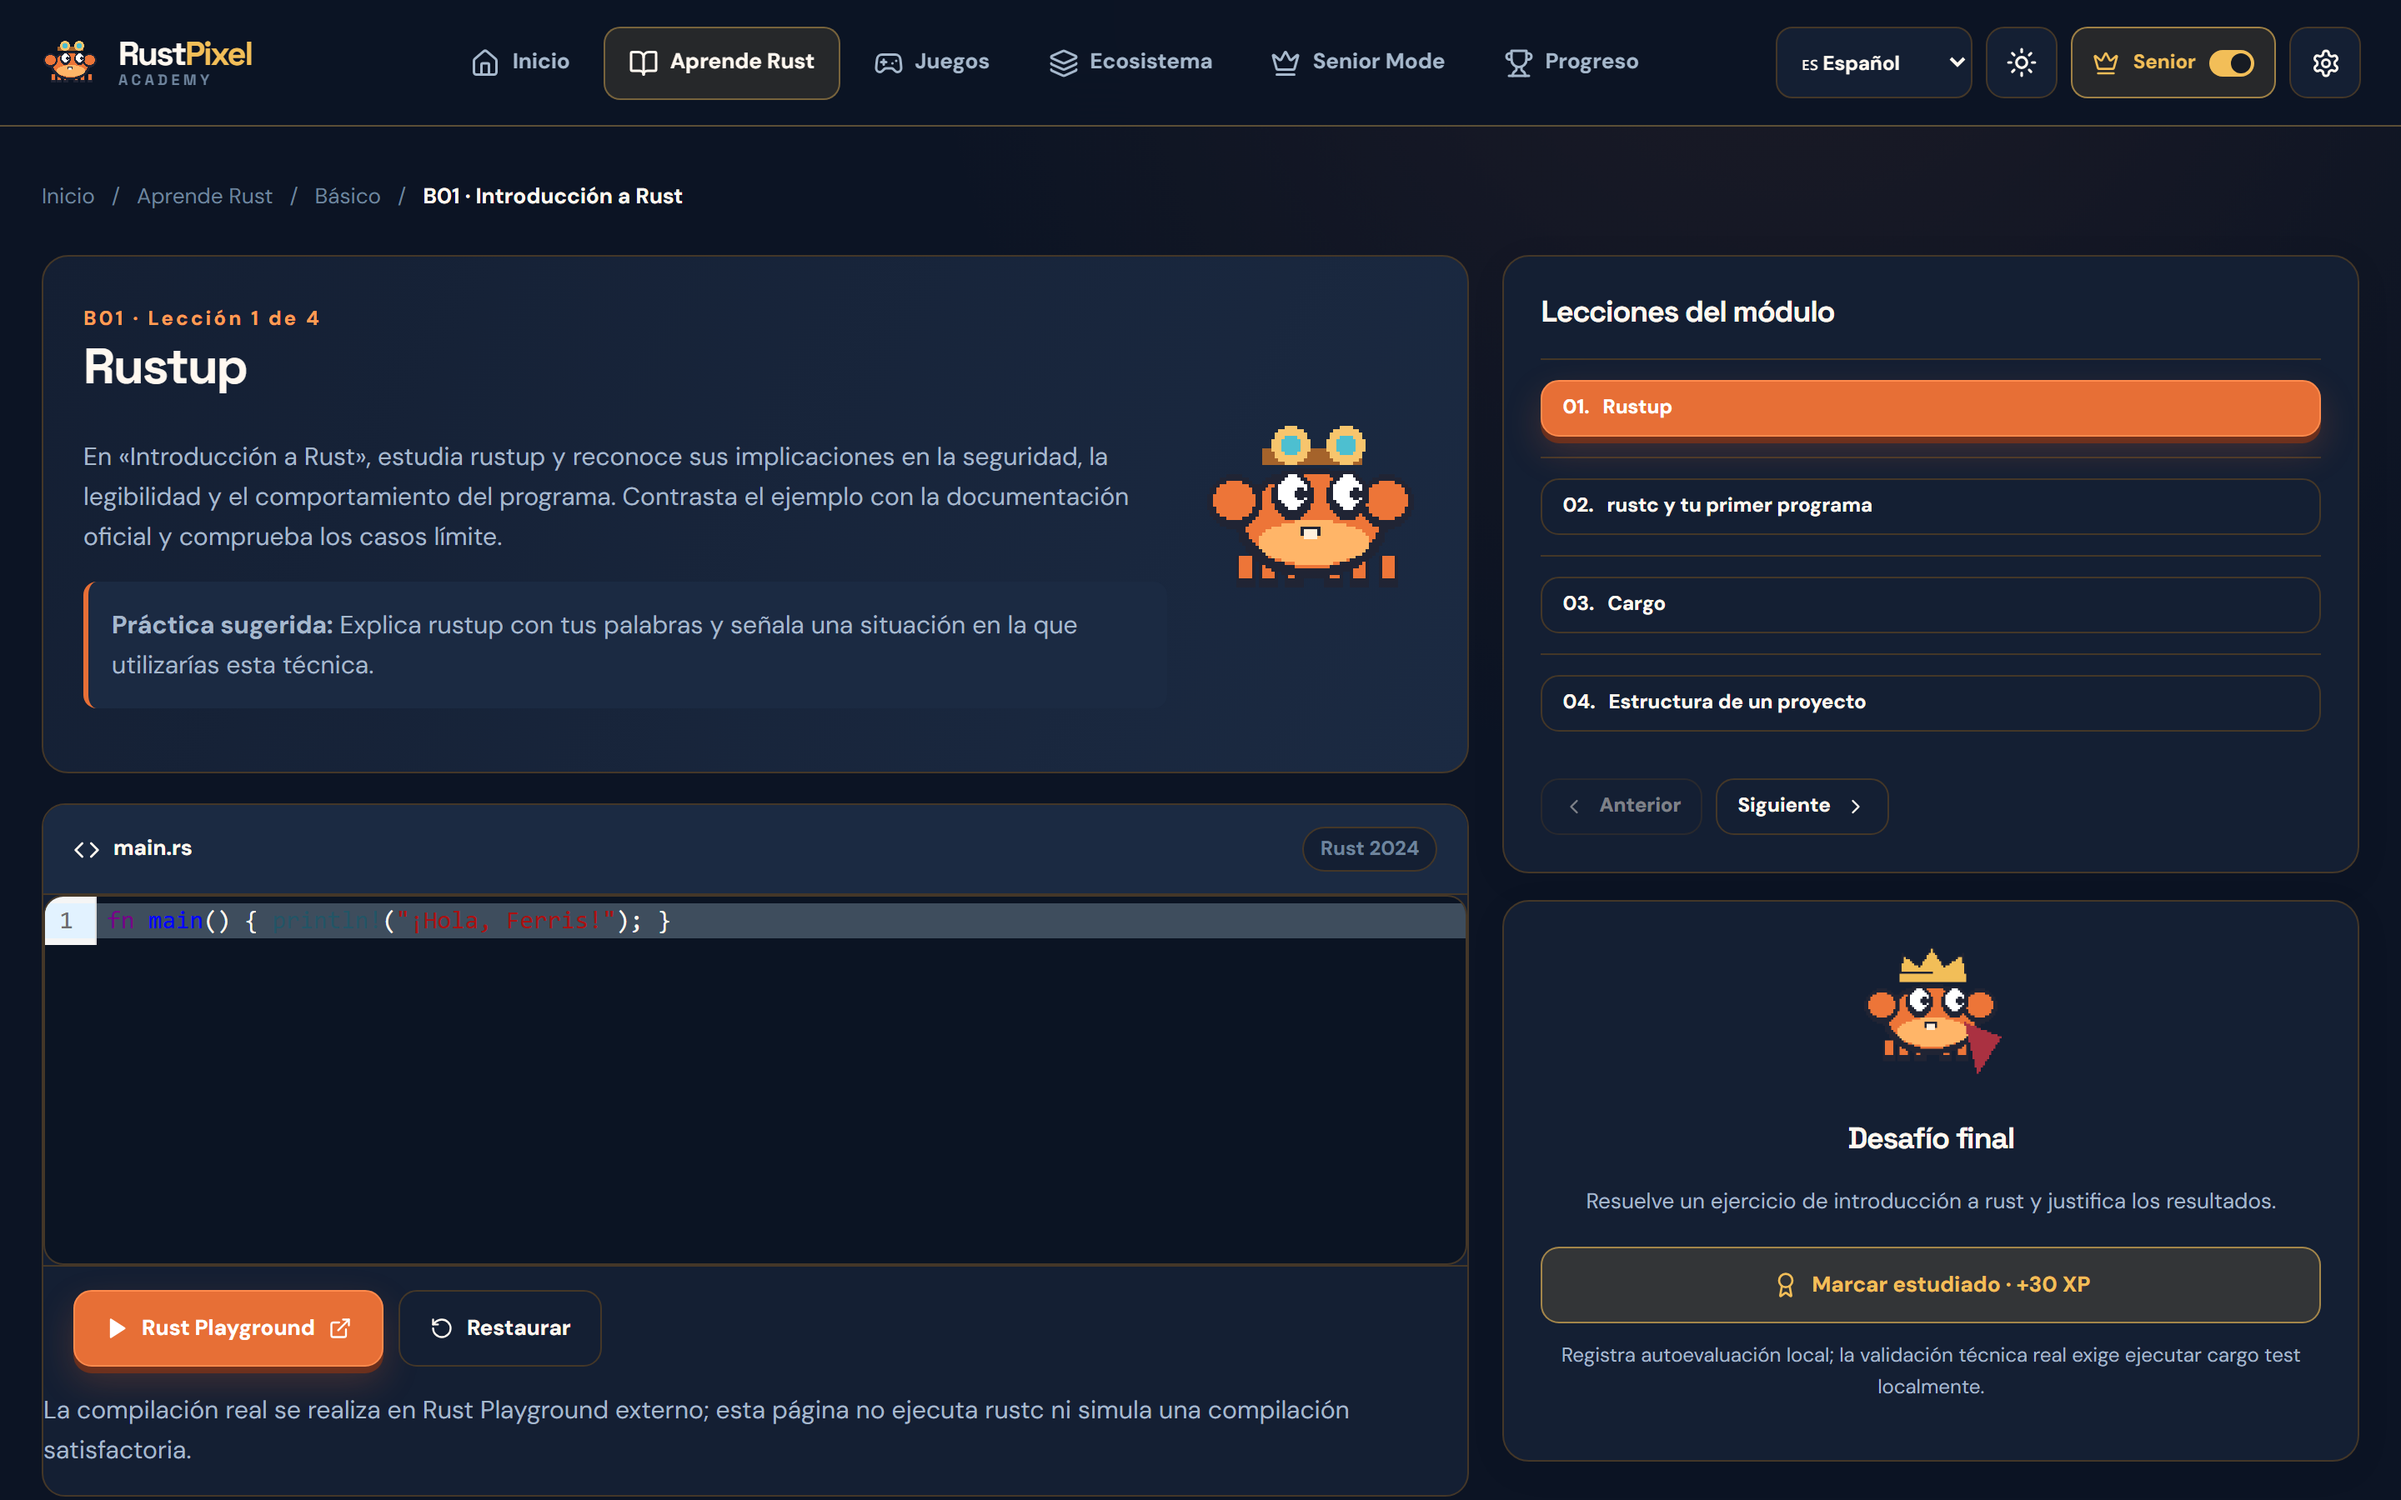
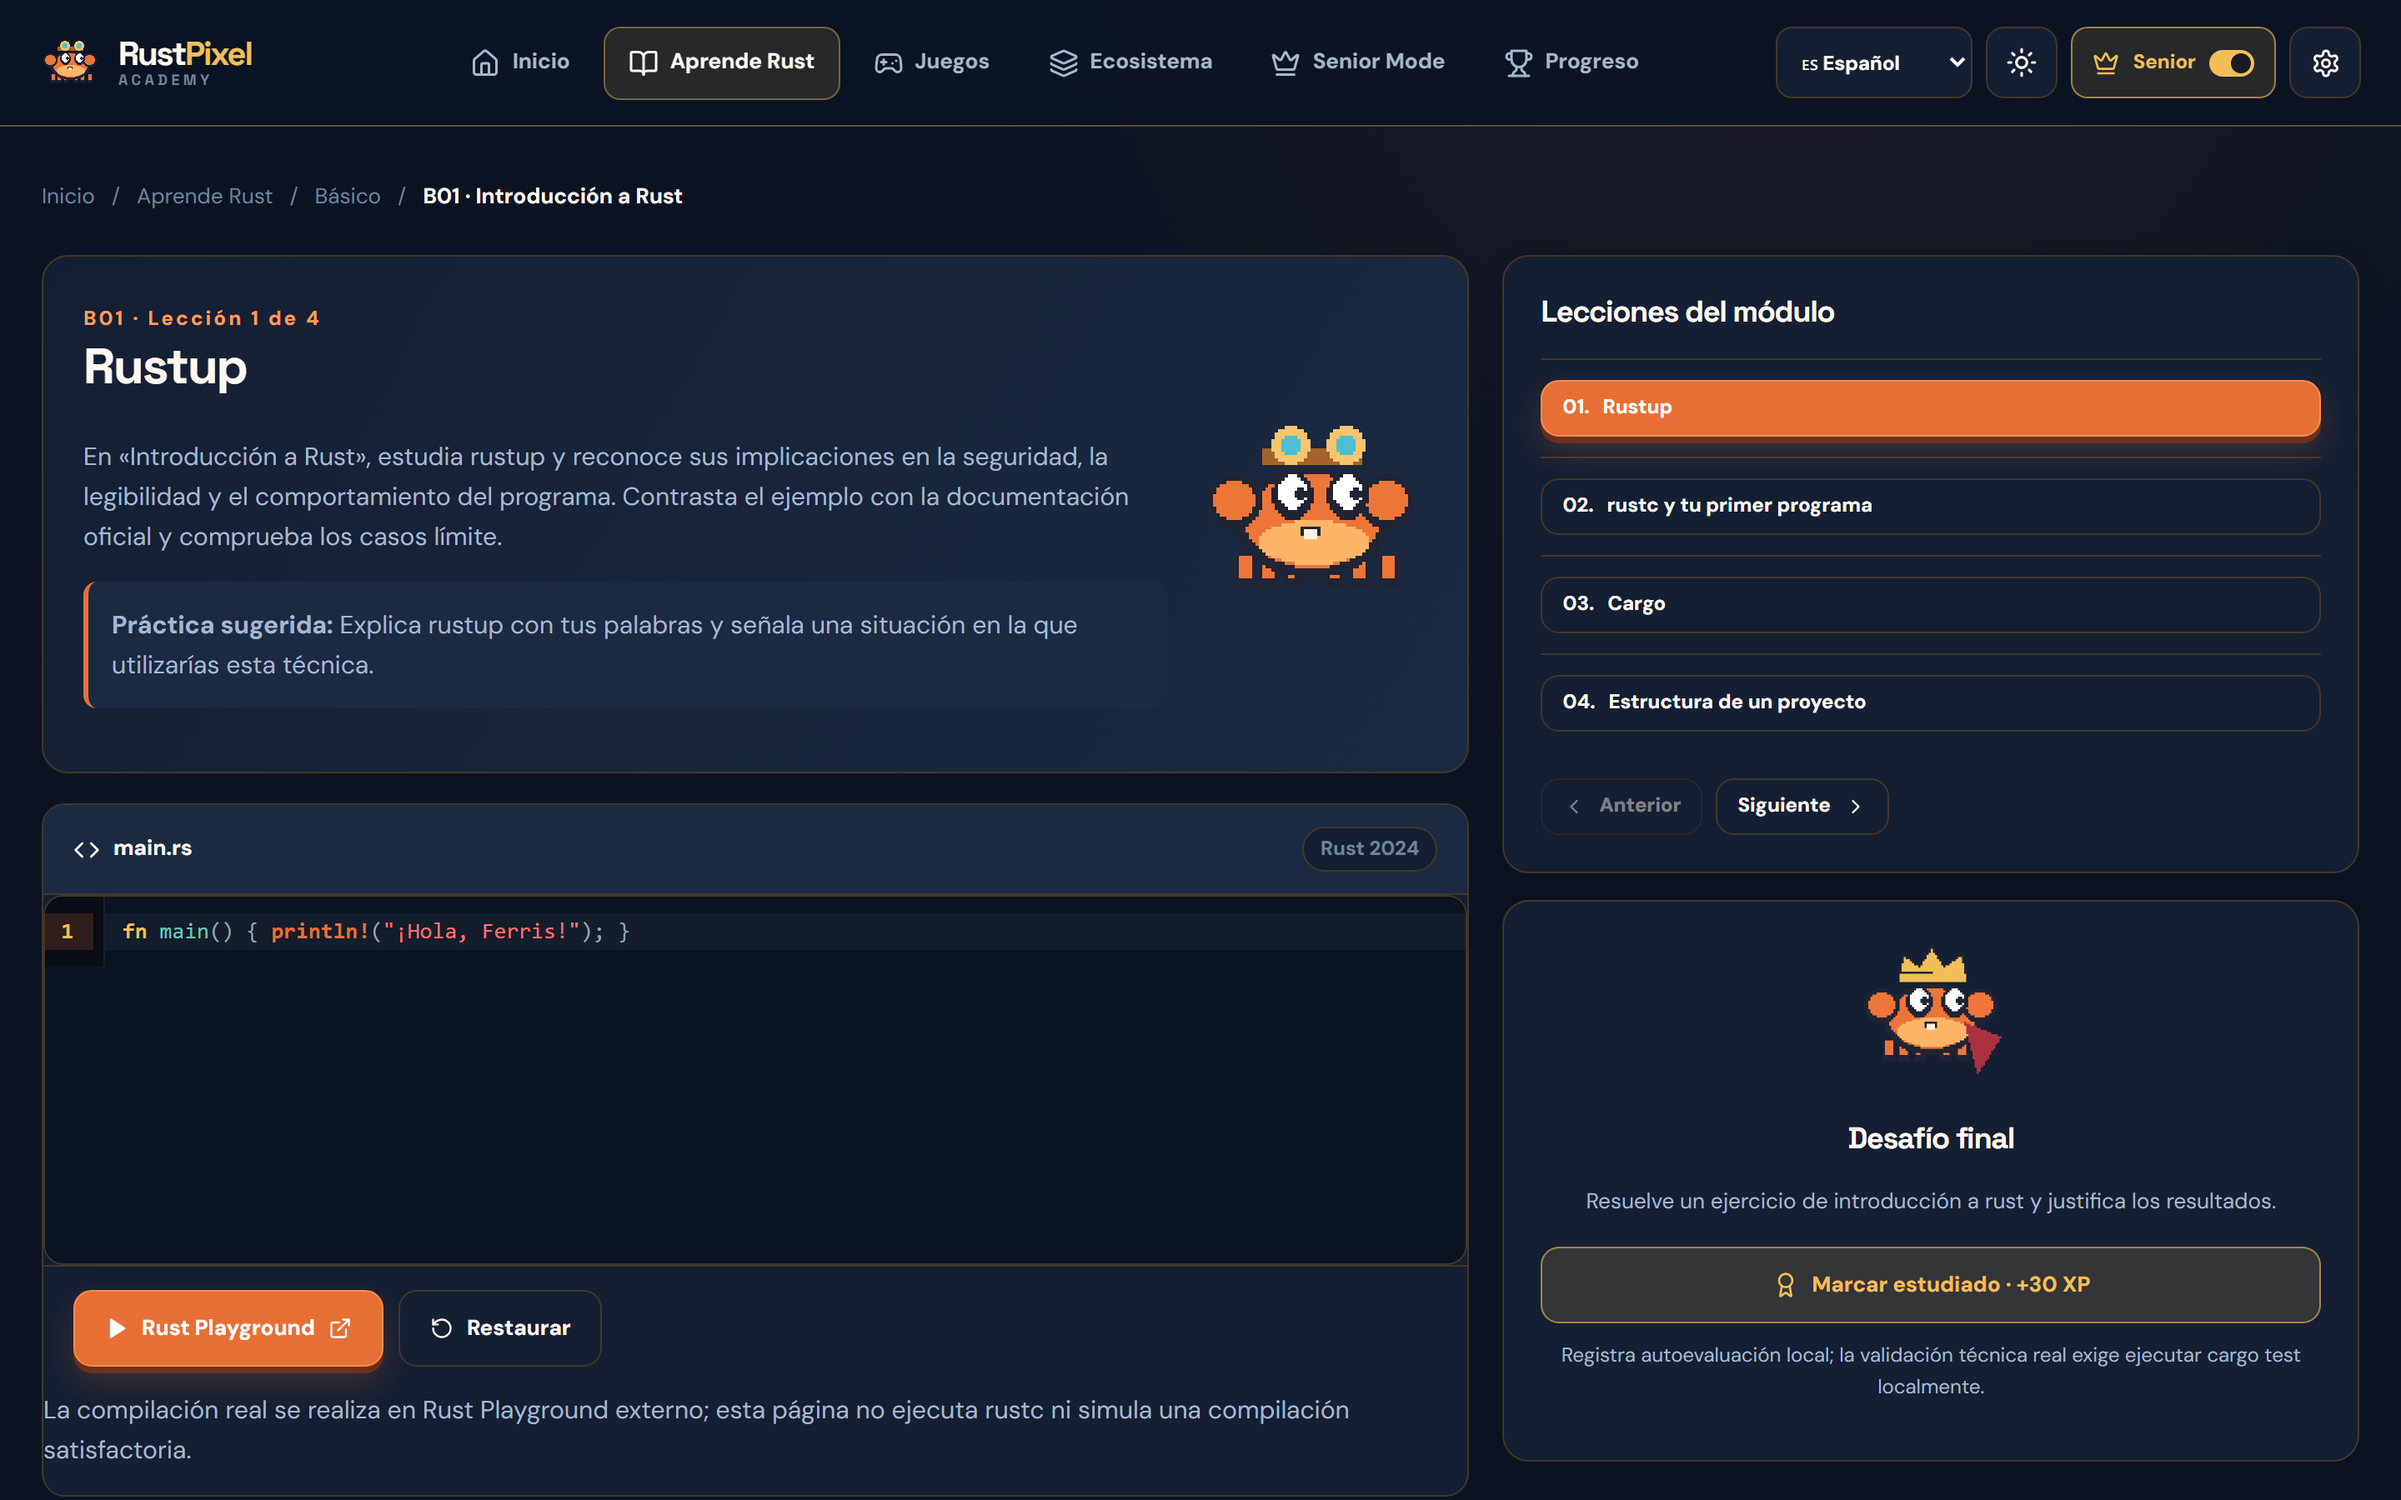
fix(editor): custom CodeMirror Rust Forge dark theme, gutters & high-contrast syntax highlighting

Changed region(s): [[0.0, 0.5911, 0.625, 0.6533]]

diff --git a/src/app/App.tsx b/src/app/App.tsx
@@ -1,5 +1,7 @@
 import { rust } from '@codemirror/lang-rust';
+import { HighlightStyle, syntaxHighlighting } from '@codemirror/language';
 import { EditorState } from '@codemirror/state';
+import { tags } from '@lezer/highlight';
 import { signal } from '@preact/signals';
 import { basicSetup, EditorView } from 'codemirror';
 import {
@@ -132,6 +134,70 @@ function Bar({ value, max }: { value: number; max: number }) {
   );
 }
 
+const rustForgeHighlight = HighlightStyle.define([
+  { tag: tags.keyword, color: '#f2be58', fontWeight: 'bold' },
+  { tag: tags.definition(tags.variableName), color: '#6fc7bd' },
+  { tag: tags.function(tags.variableName), color: '#6fc7bd' },
+  { tag: tags.variableName, color: '#e2e8f0' },
+  { tag: tags.macroName, color: '#e76f36', fontWeight: 'bold' },
+  { tag: tags.typeName, color: '#68c48c', fontWeight: 'bold' },
+  { tag: tags.string, color: '#f87171' },
+  { tag: tags.number, color: '#a78bfa' },
+  { tag: tags.bool, color: '#f2be58' },
+  { tag: tags.comment, color: '#64748b', fontStyle: 'italic' },
+  { tag: tags.operator, color: '#e76f36' },
+  { tag: tags.punctuation, color: '#94a3b8' },
+  { tag: tags.special(tags.string), color: '#fca5a5' },
+]);
+
+const rustForgeTheme = EditorView.theme(
+  {
+    '&': {
+      backgroundColor: '#0b1423',
+      color: '#e2e8f0',
+      fontFamily:
+        "ui-monospace, 'Cascadia Code', 'Fira Code', Consolas, monospace",
+      fontSize: '13.5px',
+      height: '100%',
+    },
+    '.cm-scroller': {
+      fontFamily: 'inherit',
+      lineHeight: '1.6',
+    },
+    '.cm-content': {
+      caretColor: '#e76f36',
+      padding: '10px 0',
+    },
+    '&.cm-focused .cm-cursor': {
+      borderLeftColor: '#e76f36',
+      borderLeftWidth: '2px',
+    },
+    '&.cm-focused .cm-selectionBackground, ::selection': {
+      backgroundColor: 'rgba(231, 111, 54, 0.28) !important',
+    },
+    '.cm-gutters': {
+      backgroundColor: '#080d17',
+      color: '#64748b',
+      border: 'none',
+      borderRight: '1px solid rgba(255, 255, 255, 0.08)',
+      paddingRight: '6px',
+    },
+    '.cm-activeLineGutter': {
+      backgroundColor: 'rgba(231, 111, 54, 0.18)',
+      color: '#f2be58',
+      fontWeight: 'bold',
+    },
+    '.cm-activeLine': {
+      backgroundColor: 'rgba(255, 255, 255, 0.04)',
+    },
+    '.cm-line': {
+      paddingLeft: '10px',
+      paddingRight: '10px',
+    },
+  },
+  { dark: true },
+);
+
 function CodeEditor({
   moduleId,
   initial,
@@ -151,6 +217,8 @@ function CodeEditor({
         extensions: [
           basicSetup,
           rust(),
+          rustForgeTheme,
+          syntaxHighlighting(rustForgeHighlight),
           EditorView.updateListener.of((u) => {
             if (u.docChanged) {
               const code = u.state.doc.toString().slice(0, 20000);

diff --git a/src/styles/global.css b/src/styles/global.css
@@ -758,13 +758,53 @@ pre {
   background: var(--raised);
 }
 .codebox {
-  background: var(--code);
+  background: #0b1423;
   border: 1px solid var(--border);
   border-radius: 12px;
   overflow: hidden;
 }
 .editor-host {
   min-height: 220px;
+  background: #0b1423;
+}
+
+/* CodeMirror Rust Forge Dark Styling */
+.cm-editor {
+  background: #0b1423 !important;
+  color: #e2e8f0 !important;
+  font-family: var(--font-code) !important;
+  font-size: 13.5px !important;
+}
+.cm-scroller {
+  font-family: var(--font-code) !important;
+  line-height: 1.6 !important;
+}
+.cm-gutters {
+  background: #080d17 !important;
+  color: #64748b !important;
+  border-right: 1px solid rgba(255, 255, 255, 0.08) !important;
+  border-top: none !important;
+  border-bottom: none !important;
+  border-left: none !important;
+}
+.cm-activeLineGutter {
+  background: rgba(231, 111, 54, 0.18) !important;
+  color: #f2be58 !important;
+  font-weight: 800 !important;
+}
+.cm-activeLine {
+  background: rgba(255, 255, 255, 0.04) !important;
+}
+.cm-line {
+  padding-left: 10px !important;
+  padding-right: 10px !important;
+}
+.cm-cursor {
+  border-left-color: var(--forge) !important;
+  border-left-width: 2px !important;
+}
+.cm-selectionBackground {
+  background: rgba(231, 111, 54, 0.28) !important;
 }
 .editor-actions {
   display: flex;
